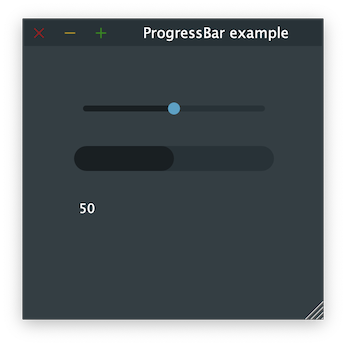
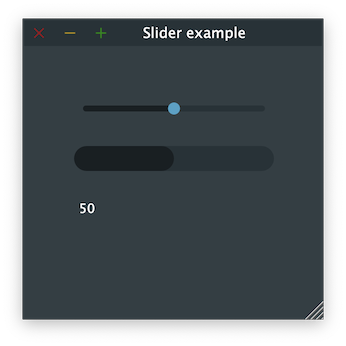
Fix title

Changed region(s): [[0.4046, 0.0578, 0.8382, 0.1156]]

diff --git a/juce_gui_basics/Widgets/Slider/src/Slider.cpp b/juce_gui_basics/Widgets/Slider/src/Slider.cpp
@@ -3,10 +3,10 @@
 
 using namespace std;
 
-namespace ProgressBarExample {
+namespace SliderExample {
   class Window1 : public DocumentWindow {
   public:
-    Window1() : DocumentWindow {"ProgressBar example", Desktop::getInstance().getDefaultLookAndFeel().findColour(ResizableWindow::backgroundColourId), DocumentWindow::allButtons} {
+    Window1() : DocumentWindow {"Slider example", Desktop::getInstance().getDefaultLookAndFeel().findColour(ResizableWindow::backgroundColourId), DocumentWindow::allButtons} {
       setBounds(200, 100, 300, 300);
       setContentOwned(&mainComponent, false);
       setResizable(true, true);
@@ -54,4 +54,4 @@ namespace ProgressBarExample {
   };
 }
 
-START_JUCE_APPLICATION(ProgressBarExample::Application)
+START_JUCE_APPLICATION(SliderExample::Application)
